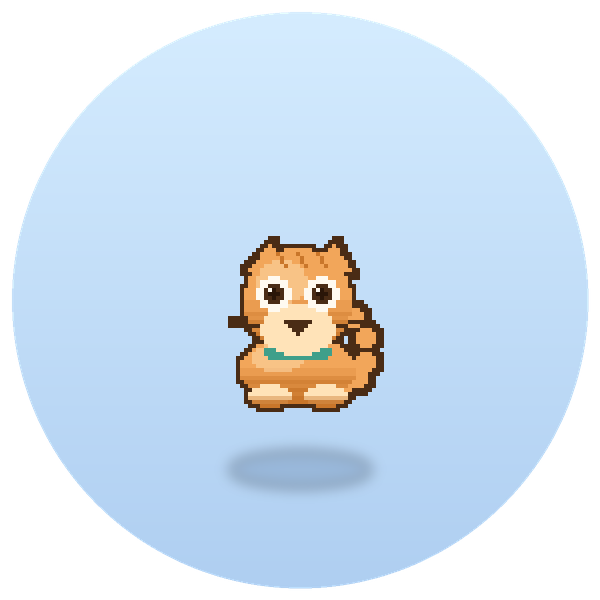
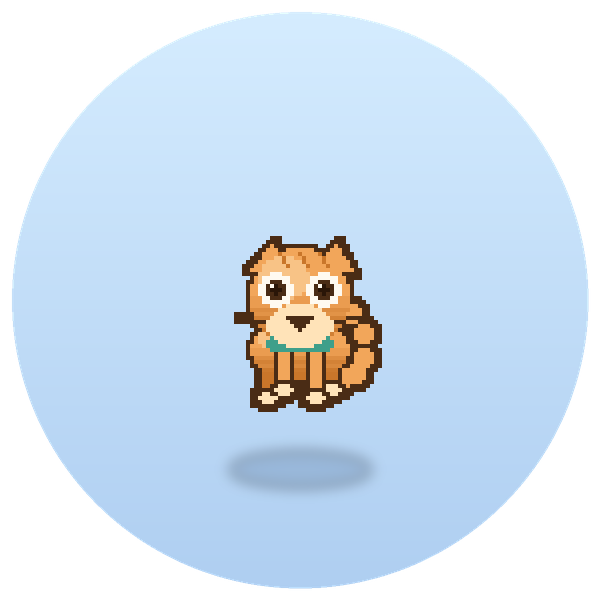
feat: the cat gets four legs and a tail that follows the walk
The cat was sitting on two abstract paws, which made the walk rows
unreadable -- there was nothing to step with.

It now stands on four legs. The near pair is drawn in front of the body in
the body colour, the far pair behind it in a darker shade, so the two pairs
are told apart at a glance. They move in a diagonal gait, the way a cat
walks: the left front and the right back step together, the other pair
steps together the other way, and the leg that swings forward lifts off the
ground. Waving is no longer an extra limb either -- the cat raises its
right front leg.

The tail follows the direction of travel. Sitting, it curls up beside the
body; walking right it streams out behind on the left, walking left it
streams out on the right; it tucks in as the body turns away from us. The
direction comes from a new "facing" field in the pose, so it is a rule and
not a drawing.

The legs are a little longer and the body a little smaller, so they read
at the size the pet actually floats at.

Changed region(s): [[0.36, 0.39, 0.66, 0.69]]

diff --git a/tools/make_pets.py b/tools/make_pets.py
@@ -286,6 +286,7 @@ class Rig:
             'arm': 0.0, 'stride': 0.0, 'wave': 0.0, 'face': 'open',
             'look': (0, 0), 'prop': None, 'blink': False,
             'yaw': 0.0, 'pitch': 0.0, 'turn': 0.0, 'hold': 0.0,
+            'facing': 0, 'gait': 0.0,
         }
         if row == 'idle':
             pose['squash'] = 1 + 0.04 * math.sin(phase)
@@ -299,6 +300,8 @@ class Rig:
             pose['dx'] = side * round(1.0 * math.sin(phase))
             pose['dy'] = -1 if frame % 2 else 0
             pose['lean'] = side * 3
+            pose['facing'] = side
+            pose['gait'] = phase
             pose['look'] = (side, 0)
             pose['wave'] = math.sin(phase)
             pose['face'] = 'happy'
@@ -357,6 +360,8 @@ class Rig:
             'look': (round(2 * yaw), round(3 * pitch)),
             'prop': None, 'blink': False, 'hold': 0.0,
             'yaw': yaw, 'pitch': pitch, 'turn': abs(yaw),
+            'facing': 1 if yaw > 0.5 else (-1 if yaw < -0.5 else 0),
+            'gait': 0.0,
         }
 
     # -- drawing ---------------------------------------------------------
@@ -416,69 +421,111 @@ class Cat(Rig):
     def draw_body(self, canvas, pose):
         x, y, head_x = self.geometry(pose)
         factor = self.width_factor(pose)
-        head_y = 22 + y + pose['head_dy']
-        # tail, curling up behind the body; it tucks in as the body turns
-        swing = pose['wave']
-        tuck = 1 - 0.35 * pose['turn']
-        tail = [(x + round(12 * tuck), 42 + y), (x + round(15 * tuck), 41 + y),
-                (x + round(17 * tuck), 37 + y),
-                (x + round(17 * tuck), 31 + y - round(swing * 2)),
-                (x + round(14 * tuck), 26 + y - round(swing * 2))]
-        self.stroke(canvas, tail, 3, self.c('outline'))
-        self.stroke(canvas, tail, 2, self.c('body'))
-        # haunches
-        half = int(round(14 * factor))
+        head_y = 20 + y + pose['head_dy']
+        direction = pose['facing'] if pose['facing'] else 1
+
+        # ---- the tail: it streams out behind the way the cat is going
+        self.draw_tail(canvas, pose, x, y)
+
+        # ---- the far pair of legs, behind the body
+        for off, phase in ((-8, math.pi), (8, 0.0)):
+            self.draw_leg(canvas, pose, x + int(round(off * factor)), y, phase,
+                          direction, behind=True)
+
+        # ---- the body
+        half = int(round(12 * factor))
         mask = self.mask_of(
-            lambda d: d.ellipse([x - half, 31 + y, x + half, 47 + y], fill=255))
+            lambda d: d.ellipse([x - half, 26 + y, x + half, 40 + y], fill=255))
         self.paint(canvas, mask, self.c('body'), self.c('shade'), self.c('light'))
-        # paws
-        for side in (-1, 1):
-            step = round(pose['stride'] * 2) * side
-            px = x + int(round(side * 7 * factor)) + step
-            mask = self.mask_of(
-                lambda d, px=px: d.ellipse([px - 5, 43 + y, px + 5, 48 + y], fill=255))
-            self.paint(canvas, mask, self.c('light'), self.c('shade'))
-        # a paw reaching for the ball of wool
+
+        # ---- the near pair of legs, in front of the body
+        for off, phase in ((-4, 0.0), (4, math.pi)):
+            self.draw_leg(canvas, pose, x + int(round(off * factor)), y, phase,
+                          direction, behind=False)
+
+        # ---- a paw reaching for the ball of wool
         if pose['hold'] > 0:
-            self.stroke(canvas, [(x + 6, 36 + y), (x + 4, 39 + y)], 2, self.c('outline'))
-            self.stroke(canvas, [(x + 6, 36 + y), (x + 4, 39 + y)], 1, self.c('body'))
-            canvas.ellipse(x + 4, 39 + y, 3, 3, self.c('light'))
-        # a waving paw
-        if pose['arm'] > 0:
-            lift = 11 * pose['arm']
-            path = [(x + 11, 38 + y), (x + 16, 32 + y - lift // 2),
-                    (x + 15, 23 + y - lift)]
-            self.stroke(canvas, path, 2, self.c('outline'))
-            self.stroke(canvas, path, 1, self.c('body'))
-            canvas.ellipse(x + 15, 22 + y - lift, 4, 4, self.c('light'))
-        # head
-        head_half = int(round(13 * factor))
+            self.stroke(canvas, [(x + 4, 37 + y), (x + 9, 40 + y)], 2, self.c('outline'))
+            self.stroke(canvas, [(x + 4, 37 + y), (x + 9, 40 + y)], 1, self.c('body'))
+            canvas.ellipse(x + 9, 40 + y, 3, 3, self.c('light'))
+
+        # ---- head
+        head_half = int(round(12 * factor))
         for side in (-1, 1):
             ex = head_x + int(round(side * 8 * factor))
-            canvas.poly([(ex - 5, head_y - 8), (ex + 2, head_y - 15),
-                         (ex + 6, head_y - 7)], self.c('outline'))
-            canvas.poly([(ex - 4, head_y - 8), (ex + 1, head_y - 14),
-                         (ex + 5, head_y - 8)], self.c('body'))
+            canvas.poly([(ex - 5, head_y - 7), (ex + 2, head_y - 14),
+                         (ex + 6, head_y - 6)], self.c('outline'))
+            canvas.poly([(ex - 4, head_y - 7), (ex + 1, head_y - 13),
+                         (ex + 5, head_y - 7)], self.c('body'))
         mask = self.mask_of(
-            lambda d: d.ellipse([head_x - head_half, head_y - 13,
-                                 head_x + head_half, head_y + 13], fill=255))
+            lambda d: d.ellipse([head_x - head_half, head_y - 12,
+                                 head_x + head_half, head_y + 12], fill=255))
         self.paint(canvas, mask, self.c('body'), self.c('shade'), self.c('light'))
         # stripes
         for offset in (-5, 0, 5):
-            canvas.line(head_x + offset, head_y - 12, head_x + offset + 2,
-                        head_y - 9, self.c('shade'))
+            canvas.line(head_x + offset, head_y - 11, head_x + offset + 2,
+                        head_y - 8, self.c('shade'))
         # a collar, so the head does not melt into the body
         collar = int(round(8 * factor))
-        canvas.rrect(head_x - collar, head_y + 11, head_x + collar, head_y + 14,
+        canvas.rrect(head_x - collar, head_y + 10, head_x + collar, head_y + 13,
                      1, self.c('collar'))
         # muzzle
         canvas.ellipse(head_x + self.face_shift(pose), head_y + 7,
-                       int(round(9 * factor)), 6, self.c('light'))
+                       int(round(8 * factor)), 5, self.c('light'))
+
+    def draw_leg(self, canvas, pose, lx, y, phase, direction, behind):
+        """One leg.
+
+        The two legs of a diagonal pair move together, the way a cat walks,
+        and the leg that swings forward lifts off the ground.
+        """
+        gait = pose['gait'] + phase
+        step = round(2 * math.sin(gait))
+        lift = 2 if math.cos(gait) > 0.3 else 0
+        waving = pose['arm'] > 0 and not behind and phase > 1
+        lx += step * direction
+        top = 31 + y
+        bottom = 45 + y - lift
+        if waving:
+            # the front right leg is raised, and the paw waves
+            bottom = 40 + y - round(2 * pose['wave'])
+            lx += round(2 * pose['wave'])
+        colour = self.c('shade') if behind else self.c('body')
+        canvas.rrect(lx - 2, top, lx + 2, bottom, 2, self.c('outline'))
+        canvas.rrect(lx - 1, top + 1, lx + 1, bottom - 1, 1, colour)
+        # the paw
+        canvas.ellipse(lx, bottom, 3, 2, self.c('outline'))
+        canvas.ellipse(lx, bottom, 2, 1, self.c('light'))
+
+    def draw_tail(self, canvas, pose, x, y):
+        """The tail trails the cat.
+
+        Sitting, it curls up beside the body. Walking, it streams out behind
+        -- on the opposite side from the direction of travel -- and it tucks
+        in as the body turns away from us.
+        """
+        facing = pose['facing']
+        side = -facing if facing else 1
+        tuck = 1 - 0.35 * pose['turn']
+        swing = pose['wave']
+        if facing == 0:
+            points = [(x + round(11 * tuck), 40 + y), (x + round(14 * tuck), 39 + y),
+                      (x + round(16 * tuck), 35 + y),
+                      (x + round(16 * tuck), 29 + y - round(swing * 2)),
+                      (x + round(13 * tuck), 24 + y - round(swing * 2))]
+        else:
+            points = [(x + side * round(9 * tuck), 40 + y),
+                      (x + side * round(13 * tuck), 39 + y),
+                      (x + side * round(16 * tuck), 36 + y),
+                      (x + side * round(17 * tuck), 32 + y - round(swing * 2)),
+                      (x + side * round(15 * tuck), 28 + y - round(swing * 2))]
+        self.stroke(canvas, points, 3, self.c('outline'))
+        self.stroke(canvas, points, 2, self.c('body'))
 
     def draw_face(self, canvas, pose):
         x, y, head_x = self.geometry(pose)
         factor = self.width_factor(pose)
-        head_y = 22 + y + pose['head_dy']
+        head_y = 20 + y + pose['head_dy']
         style = 'blink' if pose['blink'] else pose['face']
         shift = self.face_shift(pose)
         self.draw_eyes(canvas, head_x + shift, head_y - 2, 12 * factor, 4,
@@ -488,24 +535,23 @@ class Cat(Rig):
                      (head_x + shift + 3, head_y + 5),
                      (head_x + shift, head_y + 8)], self.c('outline'))
         for side in (-1, 1):
-            canvas.line(head_x + shift + side * int(round(10 * factor)), head_y + 6,
-                        head_x + shift + side * int(round(16 * factor)),
+            canvas.line(head_x + shift + side * int(round(9 * factor)), head_y + 6,
+                        head_x + shift + side * int(round(15 * factor)),
                         head_y + 5, self.c('outline'))
 
     def draw_extra(self, canvas, pose):
         x, y, head_x = self.geometry(pose)
         if pose['prop'] == 'magnifier':
-            head_y = 22 + y + pose['head_dy']
-            lens_x = head_x + 9
-            lens_y = 18 + y + pose['head_dy']
-            self.stroke(canvas, [(head_x + 4, head_y + 8), (lens_x - 2, lens_y + 4)],
+            head_y = 20 + y + pose['head_dy']
+            lens_x = head_x + 14
+            lens_y = head_y - 8
+            self.stroke(canvas, [(head_x + 10, head_y + 4), (lens_x - 4, lens_y + 2)],
                         2, self.c('outline'))
             self.stroke(canvas, [(head_x + 4, head_y + 8), (lens_x - 2, lens_y + 4)],
                         1, self.c('body'))
             self.magnifier(canvas, lens_x, lens_y)
         elif pose['prop'] == 'work':
-            self.yarn(canvas, x + 13, 41 + y)
-
+            self.yarn(canvas, x + 12, 42 + y)
 
 class Bot(Rig):
     id = 'bot'

diff --git a/README.md b/README.md
@@ -284,12 +284,16 @@ python3 tools/port_codex_pets.py --source cdn   # 改用 CDN 的 v1 图集
 - 造型语言：硬边像素 + 垂直渐变阴影 + 左上高光 + 1px 描边。
 - 帧时长直接抄官方那套，所以播放节奏和官方宠物一致。
 
+猫是这套骨架里最讲究的一只：**四条腿**（两条前腿画在身体前面、颜色是主体色；两条后腿画在身体后面、颜色是暗一档的阴影色，一眼能分出前后），走路用**对角步态**——左前腿和右后腿一起动、右前腿和左后腿一起动，像真猫那样；挥手的动作不是多长一只手，而是**抬起右前腿**。
+
+**尾巴会跟着方向走。** 站着的时候它卷在身侧；朝右走，它甩到**身后（左边）**；朝左走，它甩到身后（右边）；转身（16 向注视）的时候它收短。尾巴的方向由 pose 里的 `facing` 决定，不是画死的。
+
 #### 九行动作：对齐官方语义
 
 | 行 | 状态 | 我们怎么演 |
 |---|---|---|
 | 0 | idle | 呼吸起伏，第 4 帧眨眼（和官方一样只动脸） |
-| 1 / 2 | running-right / left | **朝那个方向走**：身体前倾 3 格、脑袋带着走、爪子交替迈 ±2 格、身子上下颠、尾巴甩、脸朝行进方向看 |
+| 1 / 2 | running-right / left | **朝那个方向走**：身体前倾 3 格、脑袋带着走、身子上下颠、脸朝行进方向看；四条腿按**对角步态**迈（两条对角线上的腿一起动），摆动的那条会离地 |
 | 3 | waving | 抬起一只爪子挥 |
 | 4 | jumping | 蹲-起-顶-落-落地，顶点抬 4 格（16px，和官方一致） |
 | 5 | failed | 下沉、左右抖、X 眼 / 沮丧眼交替 |
